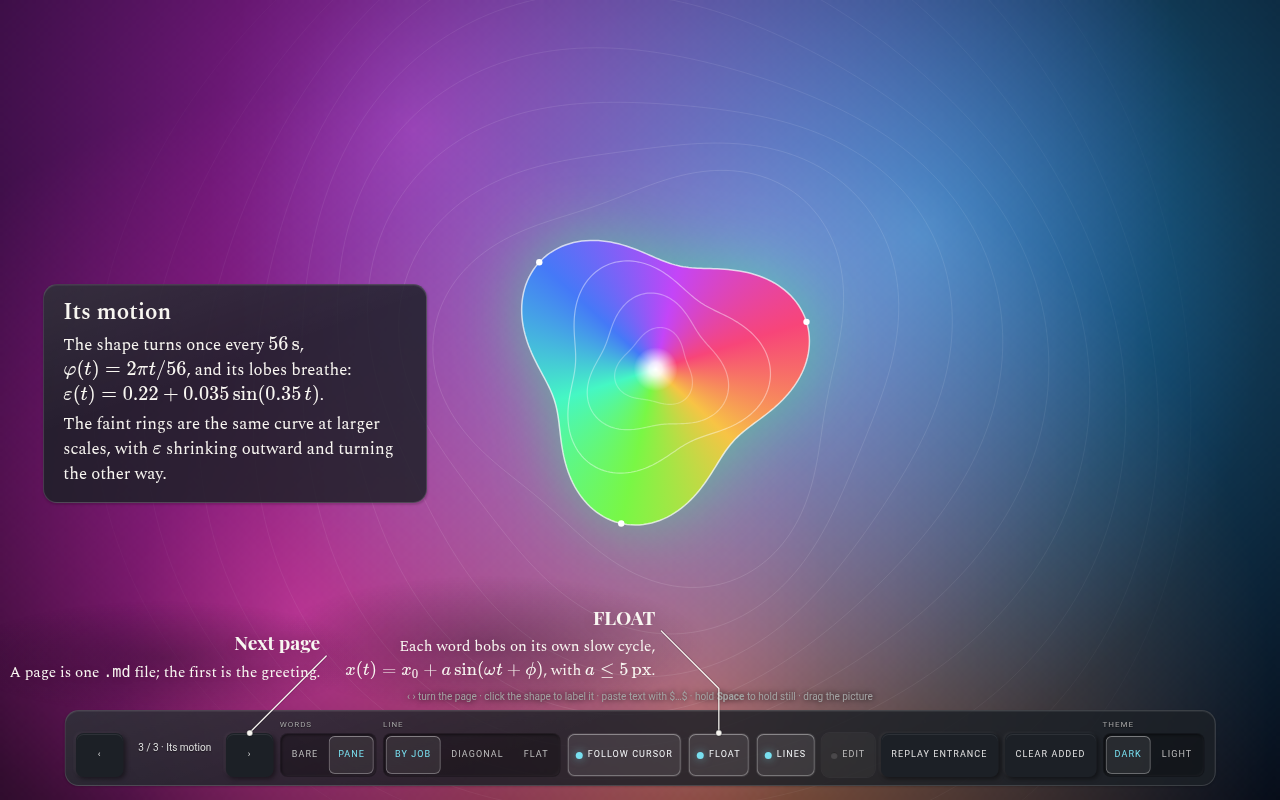
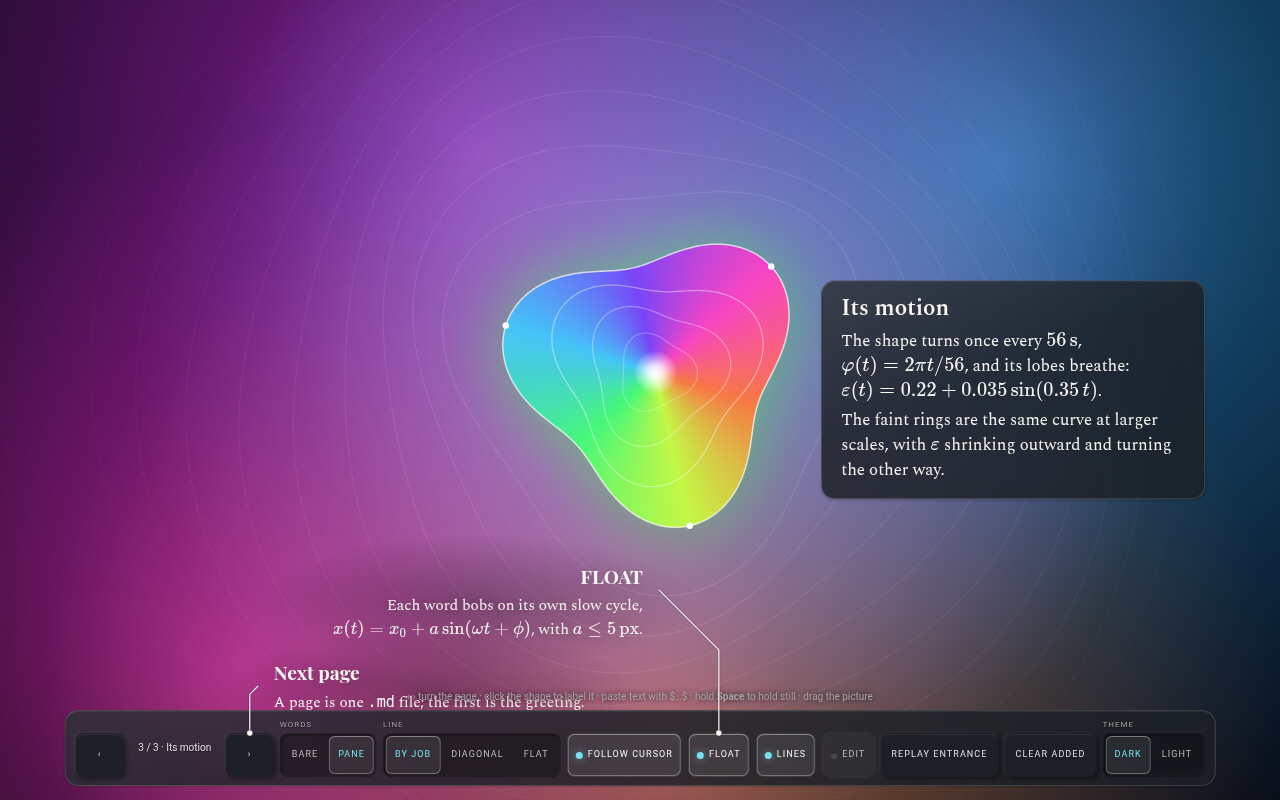
MIR 1.5.0-alpha.3: INFORMATIONAL — a line never crosses words
The seat chooser now judges each seat inside the walls, where its label will really
sit. A leader through any words (its own label's title or body, another label's, a
block's) counts as a crossing, and a seat the walls would shove back costs 1000 per px.
A line that arrives vertically keeps 10 px more clearance, eased in. New proof
tests/info-words.browser.mjs covers every gallery page, both themes, bare and on a
pane (gallery/info.html?still holds the picture still). Plates retaken.

Claude-Session: https://claude.ai/code/session_01216PZJdRDXuZKuuo4X6KUw

diff --git a/mir/info/layer.js b/mir/info/layer.js
@@ -54,7 +54,8 @@ export const INFO = Object.freeze({
   enter: { dot: 140, lineAt: 60, line: 260, textAt: 200, perLine: 30, maxLines: 6, stagger: 55, maxStagger: 5, block: 340, blockLine: 45 },
   exit: { text: 120, lineAt: 70, line: 120, dot: 90, stagger: 25 },
   fade: 120, travel: 96,
-  reseat: 1400,                                                     // ms a label's seat holds after it changed (the seat chooser)
+  reseat: 1400,
+  clear: 10,                                                        // px more between a line that arrives vertically and the words it passes                                                     // ms a label's seat holds after it changed (the seat chooser)
   block: { k: 34, zeta: 0.72 },
   /* PARALLAX against the cursor (px of travel at the stage's edge, per kind; eased over tau seconds) and DRIFT, a
      slow bob that never stops while it is on (Josh, 10-01: "everything moving and floaty") */
@@ -237,7 +238,8 @@ export function createInfoLayer({ stage, host = stage.parentElement, subject = n
     else if (free && seats.length > 1) {
       const cands = seats.map((seat, i) => {
         const at = layoutSeat(g, A, ls, seat);
-        return { boxes: ls.map((l, k) => ({ x: at[k].rx, y: at[k].ry, w: l.w, h: l.h })), segs: segsOf(g, A, ls, at), natural: i === 0, current: seat.join() === g.seat };
+        return { boxes: ls.map((l, k) => ({ x: at[k].rx, y: at[k].ry, w: l.w, h: l.h })), segs: segsOf(g, A, ls, at), natural: i === 0, current: seat.join() === g.seat, shove: at.shove || 0,
+          words: ls.flatMap((l, k) => wordsOf(l, at[k].rx, at[k].ry, at[k].rx + l.w / 2 >= A.x ? 1 : -1)) };
       });
       pick = chooseSeat(cands, obs, { bounds: { left: INFO.margin, top: INFO.margin, right: W - INFO.margin, bottom: H - INFO.margin }, subject: S.has ? { x: S.left, y: S.top, w: S.w, h: S.h } : null });
     }
@@ -264,13 +266,37 @@ export function createInfoLayer({ stage, host = stage.parentElement, subject = n
       if (prev) Ly = sy < 0 ? Ly - prev.titleH - (l.h - l.titleH) - INFO.comb : Ly + (prev.h - prev.titleH) + l.titleH + INFO.comb;
       out.push(seatOf(l, Lx, Ly, sx)); prev = l;
     }
+    /* inside the walls, as the rest will be: a seat is judged where its label will really sit (a label pushed back
+       across its own anchor by a wall is a seat whose line runs through its own words) */
+    for (const [k, l] of ls.entries()) {
+      if (l.body.held) continue;
+      const x = Math.max(INFO.margin, Math.min(out[k].rx, W - INFO.margin - l.w)), y = Math.max(INFO.margin, Math.min(out[k].ry, H - INFO.margin - l.h));
+      out.shove = (out.shove || 0) + Math.abs(x - out[k].rx) + Math.abs(y - out[k].ry);
+      out[k].rx = x; out[k].ry = y;
+    }
     return out;
   }
   const seatOf = (l, Lx, Ly, side) => ({ rx: side > 0 ? Lx + INFO.pad : Lx - INFO.pad - l.w, ry: Ly - l.titleH });
+  /** where a label's line ends: beside its title on the side facing the anchor (the text grows away from the line).
+   *  A line that arrives vertically runs past the label's body, so it keeps INFO.clear more room, eased in so the
+   *  line never jumps mid-flight. */
+  function edgeOf(A, rx, ry, l, side) {
+    const x0 = side > 0 ? rx : rx + l.w, y = ry + l.titleH;
+    const t = Math.max(0, Math.min(1, (Math.abs(y - A.y) - Math.abs(x0 - A.x)) / 20));
+    const gap = INFO.pad + INFO.clear * t;
+    return { x: x0 - side * gap, y, side, gap };
+  }
+  /** the rects of a label's words, for the law "a line never crosses words": the title (to just above the shelf that
+   *  underlines it) and the body below it */
+  function wordsOf(l, rx, ry, side) {
+    const out = [{ x: side > 0 ? rx : rx + l.w - l.titleW, y: ry, w: l.titleW, h: Math.max(0, l.titleH - 2) }];
+    if (l.h - l.titleH > 4) out.push({ x: rx, y: ry + l.titleH + 2, w: l.w, h: l.h - l.titleH - 2 });
+    return out;
+  }
   /** the line a seat would draw (the same grammar paint() draws) */
   function segsOf(g, A, ls, at) {
-    const pts = ls.map((l, k) => { const cx = at[k].rx + l.w / 2, side = cx >= A.x ? 1 : -1; return { x: side > 0 ? at[k].rx - INFO.pad : at[k].rx + l.w + INFO.pad, y: at[k].ry + l.titleH, side }; });
-    const styles = ls.map((l) => lineOf(l, g)), under = ls.map((l, i) => (styles[i] === 'flat-first' ? 0 : INFO.pad + l.titleW));
+    const pts = ls.map((l, k) => edgeOf(A, at[k].rx, at[k].ry, l, at[k].rx + l.w / 2 >= A.x ? 1 : -1));
+    const styles = ls.map((l) => lineOf(l, g)), under = ls.map((l, i) => (styles[i] === 'flat-first' ? 0 : pts[i].gap + l.titleW));
     return ls.length === 1 ? leader(A, pts[0], { style: styles[0], under: under[0], side: pts[0].side }).segs : comb(A, pts, { under }).segs;
   }
   /* the blocks of a page (a `---` separates them) stand in one column per seat, in reading order */
@@ -305,8 +331,7 @@ export function createInfoLayer({ stage, host = stage.parentElement, subject = n
   function attach(l, A) {
     const b = l.body, cx = b.x + l.w / 2;
     if (!l.side || Math.abs(cx - A.x) > 0.15 * l.w) l.side = cx >= A.x ? 1 : -1;
-    const x = l.side > 0 ? b.x - INFO.pad : b.x + l.w + INFO.pad;
-    return { x, y: b.y + l.titleH, side: l.side };
+    return edgeOf(A, b.x, b.y, l, l.side);
   }
 
   /* ── painting: transforms, attributes, one path per anchor ─────────────────────────────────────────────── */
@@ -328,7 +353,7 @@ export function createInfoLayer({ stage, host = stage.parentElement, subject = n
       if (!show) continue;
       const styles = ls.map((l) => lineOf(l, g));
       for (const [i, l] of ls.entries()) setAttr(l.el, 'data-line', styles[i]);
-      const under = ls.map((l, i) => (styles[i] === 'flat-first' ? 0 : INFO.pad + l.titleW));
+      const under = ls.map((l, i) => (styles[i] === 'flat-first' ? 0 : pts[i].gap + l.titleW));
       let segs, start;
       if (ls.length === 1) ({ segs, start } = leader(g.A, pts[0], { style: styles[0], under: under[0], side: pts[0].side }));
       else ({ segs, start } = comb(g.A, pts, { under }));

diff --git a/mir/info/seats.js b/mir/info/seats.js
@@ -1,6 +1,8 @@
 /* info/seats.js — THE SEAT CHOOSER under the force: which side of its anchor a label (or a comb of them) rests on.
  *
- * THE LAW IT KEEPS: A LINE NEVER CROSSES ANOTHER LINE OR ANOTHER LABEL WHEN A FREE SEAT EXISTS.  Plan §2.6: "this is
+ * THE LAW IT KEEPS: A LINE NEVER CROSSES WORDS — its own label's, another label's, a block's (each grown by SEAT.pad)
+ * — NOR ANOTHER LINE, WHEN A FREE SEAT EXISTS.  It crosses the subject only when no seat avoids it, and then by the
+ * shortest way out (SEAT.inside per px, far below a crossing).  Plan §2.6: "this is
  * tried alone first … if labels end up overlapping in practice, a simple chooser of resting places is added
  * underneath.  One system before two."  They did (a label dropped or pushed between a comb's members crossed its
  * spine), so this is that chooser — and nothing more.  The layer offers a few seats per anchor (the four quadrants,
@@ -11,10 +13,12 @@
  * rest pass still keeps boxes apart; the chooser only decides where "home" is.  Pure: no DOM, node-tested.
  *
  *   THE SCORE (lower is better; px and px²)
- *     a crossing — one of its segments through another anchor's line or label, or another line through its label —
+ *     a crossing — one of its segments through another anchor's line, any label's words (its own too: cand.words)
+ *     or a block, or another line through its label —
  *                                      SEAT.cross each   (the law: effectively never, when there is a choice)
  *     its labels over a block, another label, or the anchor itself (boxes grown by SEAT.gap)  SEAT.over × the area
  *     outside the stage's walls                                                                 SEAT.wall × the area
+ *     pushed back inside the walls (cand.shove, px: the seat does not really exist)             SEAT.shove × the px
  *     its line inside the subject     SEAT.inside × the length (so an anchor inside the subject leaves by the nearest
  *                                     free side)
  *     not the natural seat            + SEAT.alt          the seat it has now   − SEAT.keep  (hysteresis: no flicker)
@@ -24,7 +28,7 @@
  *   chooseSeat(cands, obs, opts) → index     each cand may carry `natural` and `current`
  *   segCrossesSeg, segHitsBox, clipLength, overlapArea — the geometry, exported for the proofs */
 
-export const SEAT = Object.freeze({ cross: 1e5, gap: 6, over: 3, wall: 6, inside: 90, alt: 800, keep: 2500, trouble: 6000 });
+export const SEAT = Object.freeze({ cross: 1e5, gap: 6, pad: 3, over: 3, shove: 1000, wall: 6, inside: 90, alt: 800, keep: 2500, trouble: 6000 });
 
 const EPS = 1e-6;
 /** do two segments cross (touching at an end does not count) */
@@ -47,6 +51,7 @@ export function clipLength(s, b) {
 }
 /** does a segment pass through a box (more than a pixel of it) */
 export const segHitsBox = (s, b) => clipLength(s, b) > 1;
+const grow = (b, d) => ({ x: b.x - d, y: b.y - d, w: b.w + 2 * d, h: b.h + 2 * d });
 /** the area two boxes share once both are grown by `gap` */
 export function overlapArea(a, b, gap = 0) {
   const w = Math.min(a.x + a.w, b.x + b.w) - Math.max(a.x, b.x) + gap, h = Math.min(a.y + a.h, b.y + b.h) - Math.max(a.y, b.y) + gap;
@@ -65,10 +70,12 @@ export function troubleOf(cand, obs, { bounds = null, subject = null } = {}, P =
   for (const g of cand.segs) {
     if (subject) s += P.inside * clipLength(g, subject);
     for (const o of obs.segs) if (segCrossesSeg(g, o)) s += P.cross;
-    for (const b of obs.boxes) if (b.solid !== false && segHitsBox(g, b)) s += P.cross;
+    for (const b of obs.boxes) if (b.solid !== false && segHitsBox(g, grow(b, P.pad))) s += P.cross;
+    for (const w of cand.words || []) if (segHitsBox(g, w)) s += P.cross;      // through its own words
   }
+  s += P.shove * (cand.shove || 0);                                  // a seat the walls had to push its label back into
   for (const b of cand.boxes) {
-    for (const o of obs.segs) if (segHitsBox(o, b)) s += P.cross;
+    for (const o of obs.segs) if (segHitsBox(o, grow(b, P.pad))) s += P.cross;
     for (const o of obs.boxes) s += P.over * overlapArea(b, o, P.gap);
     s += P.wall * outside(b, bounds);
   }

diff --git a/gallery/info.html b/gallery/info.html
@@ -136,7 +136,9 @@ const subjectRect = () => { const r = P.R * 1.24; return { left: P.cx - r, top: 
 
 /* ── THE LAYER ─────────────────────────────────────────────────────────────────────────────────────────────── */
 resize();
-const layer = createInfoLayer({ stage: canvas, host, subject: subjectRect, features: feats, drift: true });
+/* ?still: the picture holds still and nothing floats, so every body comes to rest (the proofs use it) */
+const STILL = new URLSearchParams(location.search).has('still');
+const layer = createInfoLayer({ stage: canvas, host, subject: subjectRect, features: feats, drift: !STILL });
 window.__INFO = layer;
 
 /* a PAGE's place anchors (@a+bi) are in the shape's own plane: units of R, turning with it, so a label at the waist
@@ -197,7 +199,7 @@ const strip = document.getElementById('strip');
 const prev = trig({ label: '‹', title: 'the previous page', onFire: () => turn(-1) }).root, next = trig({ label: '›', title: 'the next page', onFire: () => turn(1) }).root;
 prev.dataset.info = 'page-prev'; next.dataset.info = 'page-next';
 const pageName = document.createElement('div'); pageName.className = 'g-page'; pageName.setAttribute('aria-live', 'polite');
-const float = sw({ label: 'FLOAT', value: true, title: 'a slow drift, so nothing ever sits quite still', onChange: (v) => layer.setDrift(v) }).root;
+const float = sw({ label: 'FLOAT', value: !STILL, title: 'a slow drift, so nothing ever sits quite still', onChange: (v) => layer.setDrift(v) }).root;
 float.dataset.info = 'float';
 const paneSeg = seg({ label: 'WORDS', value: 'bare', options: [{ id: 'bare', label: 'BARE', title: 'ink on a soft darkness, no window' }, { id: 'pane', label: 'PANE', title: 'the same words on a glass pane' }], onChange: (v) => layer.setPane(v === 'pane') }).root;
 paneSeg.dataset.info = 'pane';
@@ -240,7 +242,7 @@ frame.drive(() => {});
 let t0 = performance.now(), last = t0, clock = 0;
 function loop(now) {
   const dt = Math.min(0.05, (now - last) / 1000); last = now;
-  clock += dt * (motionPolicy() === 'full' ? 1 : 0.25);
+  clock += STILL ? 0 : dt * (motionPolicy() === 'full' ? 1 : 0.25);
   const k = 1 - Math.exp(-dt * 14);                                   // the hand's offset, eased
   view.ox += (view.tx - view.ox) * k; view.oy += (view.ty - view.oy) * k;
   P.R = Math.max(70, Math.min(W, H) * 0.165);

diff --git a/docs/INFORMATIONAL.md b/docs/INFORMATIONAL.md
@@ -100,6 +100,7 @@ A control usually sits outside the stage, in a window or the rack, and those pai
 | Law | As built |
 |---|---|
 | **The line grammar** | From the edge of the thing (centre + r) to the label's attach point. If \|dx\| ≥ \|dy\|: a 45° run of \|dy\|, then flat. Otherwise: a 45° run of \|dx\|, then vertical. **Diagonal first:** the flat part runs on to underline the title. **Flat first:** the 45° run arrives at the title's near corner. **Comb:** one 45° run, a vertical spine, one flat branch per label. This is legal at every frame, including mid-flight and under the hand |
+| **A line never crosses words** | A leader never runs through a block of words: not its own label's title or body, not another label's, not a block's. A line that arrives vertically keeps 16 px from the words it passes (6 px of pad plus 10 px of clearance, eased in as the arrival turns vertical, so the line never jumps mid-flight). It crosses the subject only when no seat avoids it, and then by the shortest way out. The line ends beside the title on the side facing the anchor, and the text grows away from it. The chooser enforces this; it is proven on every gallery page in both themes, bare and on a pane |
 | **Two lines, two jobs** | **diagonal-first** names a feature the app knows (a titled label on a feature id). **flat-first** is a note: at a place, on a control, or with no title. The callout's line word, `addLabel({ line })`, or `setStyle` (for all) overrides it. Each label carries `data-line` |
 | **The seat chooser** | Under the force, a small chooser picks which side of its anchor a label (or a comb) rests on. See "The seat chooser" below |
 | **Gone** | An anchor that resolves to null, or a feature or place outside the stage, hides its labels and line (`data-gone`). Hidden labels take no part in the force. When the anchor returns, they land on their seats rather than flying in. A control is never "off the stage" (it usually is), only gone when it is |
@@ -123,13 +124,15 @@ A control usually sits outside the stage, in a window or the rack, and those pai
 
 Plan §2.6 said: "if labels end up overlapping in practice, a simple chooser of resting places is added underneath. One system before two." They did (a label pushed between a comb's members crossed its spine), so `info/seats.js` is that chooser. The force still moves the bodies; the chooser only decides where home is.
 
+- **Judged where it will sit.** Each seat's labels are first pushed inside the walls, exactly as their rests will be. A seat whose label a wall would push back across its own anchor is a seat whose line runs through its own words, and the score sees it.
 - **The seats.** An anchor outside the subject gets the four quadrants beside it (`h`: a 45° run, then flat). An anchor inside the subject's box gets those four plus four straight above or below it (`v`: a 45° run, then vertical), so it can leave by the nearest free edge. A control gets only the four above or below.
 - **The order.** Labels the hand placed are seated first (they do not move). The rest follow by how deep their anchor lies inside the subject's box, in 40 px steps so the order never shuffles while the view moves. An anchor near an edge has one short way out; the one in the middle can leave by any edge, so it chooses last.
 - **The score** (lower is better). Each seat is scored against the blocks, the anchors, the subject's box, and the labels and lines already seated.
 
   | Term | Weight |
   |---|---|
-  | A crossing: its line through another line or label, or another line through its label | 100 000 each |
+  | A crossing: its line through another line, through any label's words (its own too) or a block (each grown by 3 px), or another line through its label | 100 000 each |
+  | Pushed back inside the walls (a seat that does not really exist) | 1000 × the px |
   | Overlap with a block, a label, an anchor or the subject (boxes grown by 6 px) | 3 × the area |
   | Outside the walls | 6 × the area |
   | Its line inside the subject | 90 × the length |
@@ -154,6 +157,7 @@ Plan §2.6 said: "if labels end up overlapping in practice, a simple chooser of 
 | Label offset | out = escape from the subject + 46 + r; rise = 34 + min(40, 0.2·escape). Above or below (`v`): 23 + r across, and out of the subject's edge + 34 (a control: r + 68, and the whole label clears it) | Comb members stack 14 px apart |
 | Block seat | 36 px from the subject, centred on it; a page's blocks stack 18 px apart | |
 | Seat hold | 1.4 s after a seat changes | |
+| Line clearance | 6 px (pad) beside a title; + 10 px when the line arrives vertically past the body | |
 | Entrance | dot 140 ms (spring) · line from 60 ms over 260 ms (ease-out) · text from 200 ms, 30 ms per line (spring, k 300 c 22, ~330 ms, as CSS `linear()`) · labels stagger 55 ms outward from the subject (max 5) | About 0.7 s for a screenful |
 | Exit | text 120 ms · line from 70 ms over 120 ms · dot 90 ms, ease-in, 25 ms stagger | About 0.3 s |
 | Gone | opacity out over `--motion-ui`, then hidden | |
@@ -181,6 +185,7 @@ Plan §2.6 said: "if labels end up overlapping in practice, a simple chooser of 
 ## Proofs
 
 - `tests/info-page.node.mjs` (12 checks): `parsePage` over labels with and without titles, the line word, the three anchor kinds, other callouts left alone, `---` splitting (and not inside a fence), maths untouched, CRLF, a BOM and front matter, a leading rule that is not front matter. The chooser: the geometry, the natural seat kept when free and left when a comb is in the way, stickiness, an anchor inside the subject leaving by the shorter way.
+- `tests/info-words.browser.mjs` on `gallery/info.html?still` (13 checks): checks every page, bare and on a pane, in both themes, once at rest. No leader segment, on the stage or the overlay, runs through any label's or block's words (real rects, real paths through `getScreenCTM`). A vertical run beside words keeps at least 10 px. Run against the previous build it fails on the two cases it was written for: "Next page" (28 px through its own sentence) and "The centre" (7 px from its own body). `?still` stops the picture's clock and the drift so the bodies rest.
 - `tests/info-leader.node.mjs`: 8,000 random leaders in both styles and 3,000 combs. Every segment is 0°, 45° or 90°, each path is connected, starts on the edge and ends at the label.
 - `tests/info-bodies.node.mjs` (17 checks): rest is exact; overlapping bodies separate; the rest pass leaves no overlap; the energy cut-off; the cap and its reset; the pointer parts but a reach does not; a held body does not yield; reduced motion; walls.
 - `tests/info.browser.mjs` on `tests/fixtures/info.html` (21 checks, real pointer): the far side after the dwell and not before; the pin; reaching never moves the block; a dragged line is legal at 44 sampled frames and the neighbour yields; the drop is kept; following lags and lands exactly; reduced motion is a fade; Space holds; click-through; the idle law; lines by job.
